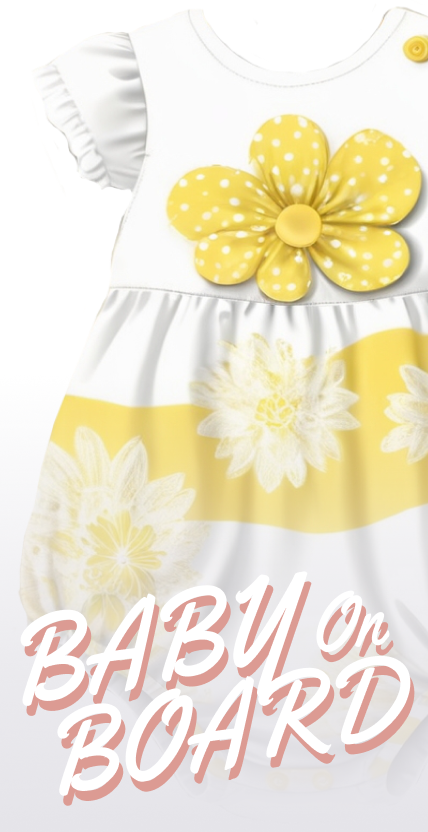
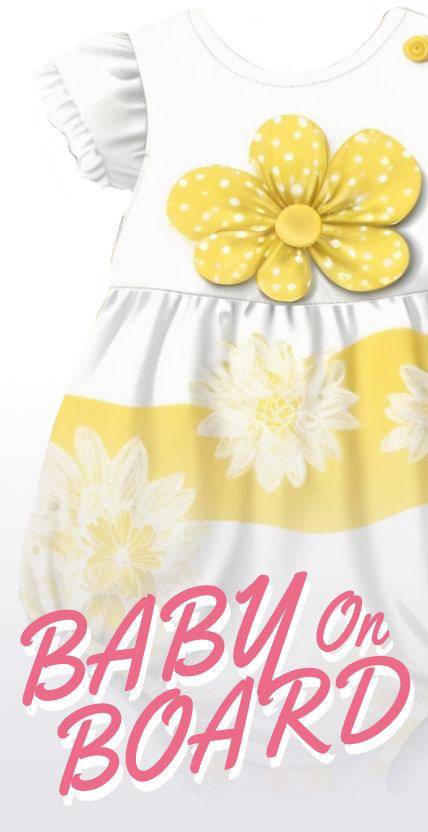
Update Css
Change color text

Changed region(s): [[0.0304, 0.6875, 0.972, 0.9688]]

diff --git a/digital_cards/dorian_card/css/main.css b/digital_cards/dorian_card/css/main.css
@@ -280,7 +280,7 @@ http://stackoverflow.com/a/34696029/383904
 
 
 .CSSgal {
-	color: white;
+	color: #EB6B89;
 	text-align: center;
 }
 .CSSgal .slider h2 {
@@ -338,7 +338,7 @@ http://stackoverflow.com/a/34696029/383904
   text-align: center;
   letter-spacing: 3px;
   line-height:5.5rem;
-  text-shadow: 2px 7px 2px rgba(134,91,87,0.6);
+  text-shadow: 2px 7px 2px rgba(255,255,255,0.8);
 } 
 
 .CSSgal .slider .txt-event .number{ font-size: 4rem;}
@@ -376,7 +376,7 @@ http://stackoverflow.com/a/34696029/383904
   font-family: 'Yellowtail', cursive;
   font-size:16rem;
   line-height: 70px;
-  text-shadow: 0 6px 10px rgba(220,155,147,0.8);
+  text-shadow: 0 6px 3px rgba(255,255,255,1);
   transform: translateY(-50%);
   margin: auto;
   margin-top: 10vh;
@@ -388,8 +388,8 @@ http://stackoverflow.com/a/34696029/383904
   font-size:2.5rem;
   font-family: 'Yellowtail', cursive;
   letter-spacing: 7px;
-  color: #88FFF1;
-  text-shadow: 0 2px 10px rgba(4,24,47,0.3);
+  color: #EB6B89;
+  text-shadow: 0 2px 10px rgba(255,255,255,0.8);
   transform: translateY(-50%);
   margin: auto;
   margin-top: 5vh;
@@ -419,13 +419,13 @@ http://stackoverflow.com/a/34696029/383904
   font-size:2rem;
   text-transform: uppercase; 
   letter-spacing: 3px;
-  text-shadow: 0 2px 10px rgba(4,24,47,0.1);
+  text-shadow: 0 2px 10px rgba(255,255,255,0.9);
   transform: translateY(-50%);
   text-align: center;
   margin: auto;
   margin-top: 60vh;
   font-family: 'Yellowtail', cursive;
-  color: #DC9B93;
+  color: #EB6B89;
 }
 
 .CSSgal .slider .sub3{

diff --git a/digital_cards/dorian_card/index.html b/digital_cards/dorian_card/index.html
@@ -48,13 +48,13 @@
             Cd. Madero</p>
           </a>
           <p class="date" data-aos="fade-zoom-in" data-aos-delay="700">20 <br><span> Enero</span></p>
-          <!--<p class="hour" data-aos="fade-down" data-aos-delay="800"> 17:00 Hrs. </p>-->
-          <p class="txt-sugerencia" data-aos="fade-left" data-aos-delay="950">Dinámica: Mameluco de niña.</p>
+          <p class="hour" data-aos="fade-down" data-aos-delay="800"> 16:00 Hrs. </p>
+          <p class="txt-sugerencia" data-aos="fade-left" data-aos-delay="950">Obsequio: Pañales talla mediana.</p>
       </div>
       <div id="four">
         <p class="txt3" data-aos="fade-zoom-in" data-aos-delay="1000"> <span>Te</span> esperamos</p>
         <p class="sub3" data-aos="fade-down" data-aos-delay="1350"> Favor de confirmar asistencia </p>
-        <a class="btn-confirm" href="https://wa.me/528332322629/?text=Confirmo%20mi%20asistencia%20al%20Baby%20shower%20de%20Dorian." target="_blank"  onclick="play('sonido_btn')">
+        <a class="btn-confirm" href="https://wa.me/528335067837/?text=Confirmo%20mi%20asistencia%20al%20Baby%20shower%20de%20Dorian." target="_blank"  onclick="play('sonido_btn')">
           <img src="img/verified_icon.png" alt="icon-check">
           <p>Asistiré</p>
         </a>

diff --git a/digital_cards/dorian_card/js/main.js b/digital_cards/dorian_card/js/main.js
@@ -21,11 +21,11 @@ audioElements.forEach(audioElement => {
 }
 
 
-//$(function(){
-//$(document).bind("contextmenu",function(e){
- //   return false;
-// });
-//});
+$(function(){
+$(document).bind("contextmenu",function(e){
+   return false;
+ });
+});
 
 AOS.init({
   duration: 1200,
